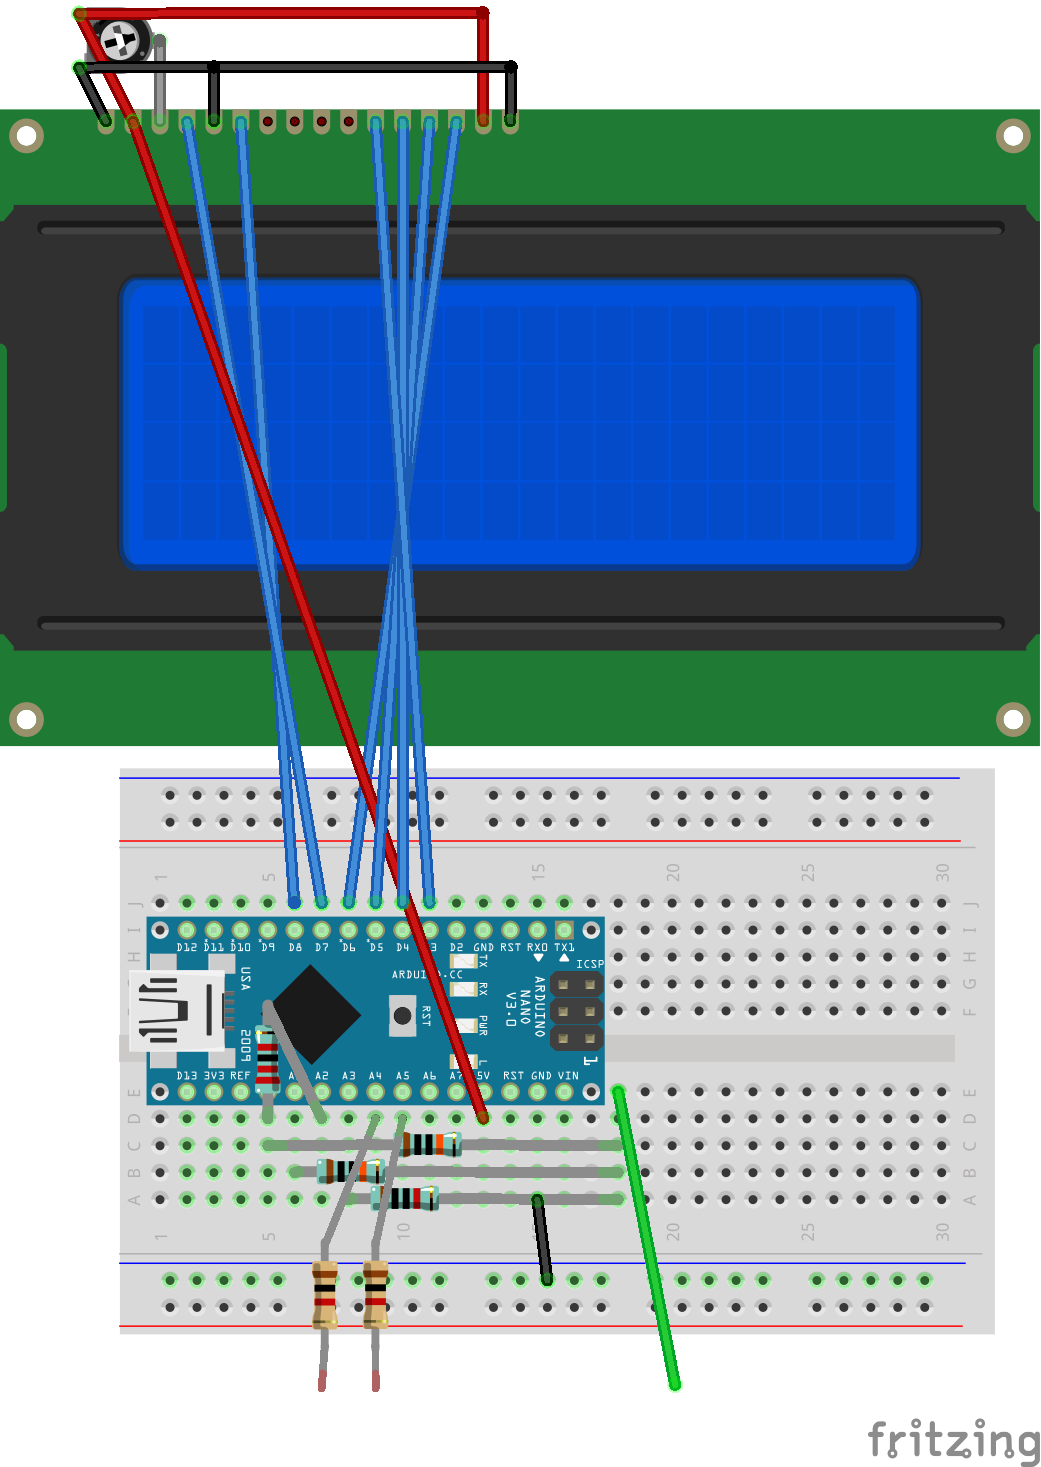
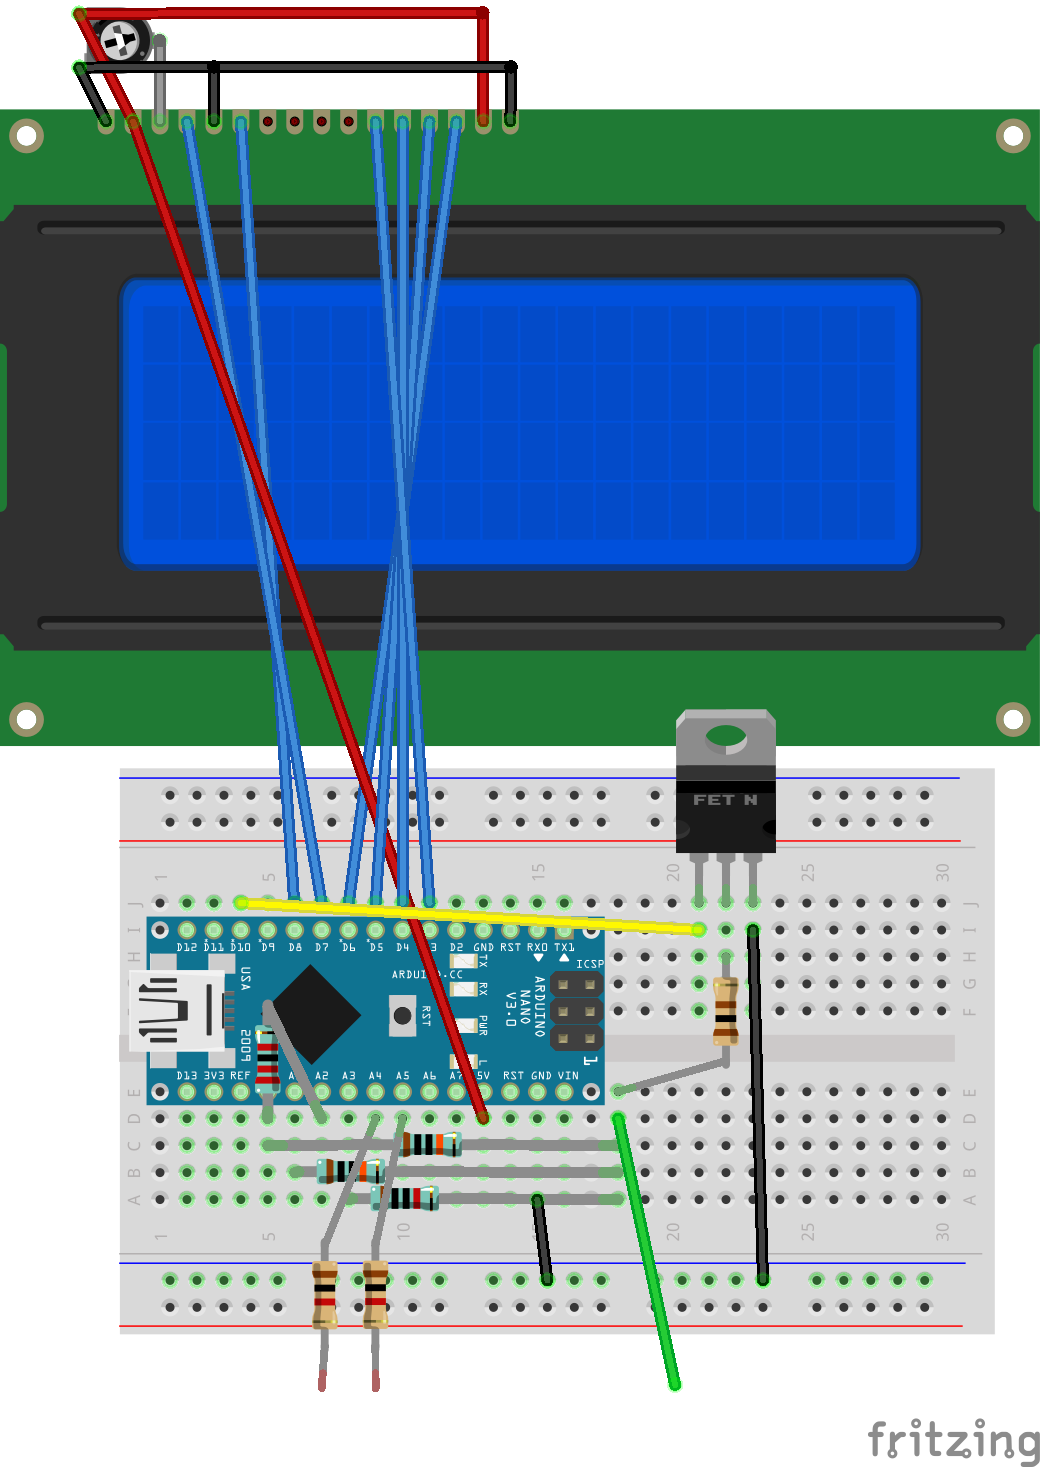
Improved support for automatic discharge and charge

Changed region(s): [[0.2152, 0.4601, 0.7685, 0.8896], [0.5841, 0.7362, 0.6455, 0.9202]]

diff --git a/SBMInfo/ADCUtils.hpp b/SBMInfo/ADCUtils.hpp
@@ -319,8 +319,8 @@ uint16_t readADCChannelWithReferenceMaxMicros(uint8_t aADCChannelNumber, uint8_t
  * aMaxRetries = 255 -> try forever
  * @return (tMax + tMin) / 2
  */
-uint16_t readUntil4ConsecutiveValuesAreEqual(uint8_t aADCChannelNumber, uint8_t aReference, uint8_t aDelay, uint8_t aAllowedDifference,
-        uint8_t aMaxRetries) {
+uint16_t readUntil4ConsecutiveValuesAreEqual(uint8_t aADCChannelNumber, uint8_t aReference, uint8_t aDelay,
+        uint8_t aAllowedDifference, uint8_t aMaxRetries) {
     int tValues[4]; // last value is in tValues[3]
     int tMin;
     int tMax;
@@ -651,7 +651,7 @@ bool isVCCTooHighSimple() {
  * !!! Function without handling of switched reference and channel.!!!
  * Use it ONLY if you only use INTERNAL reference (e.g. only call getTemperatureSimple()) in your program.
  */
-float getTemperatureSimple(void) {
+float getCPUTemperatureSimple(void) {
 #if defined(__AVR_ATmega1280__) || defined(__AVR_ATmega2560__)
     return 0.0;
 #else
@@ -661,12 +661,13 @@ float getTemperatureSimple(void) {
     Serial.print(F("TempRaw="));
     Serial.println(tTempRaw);
 #endif
-#if defined(__AVR_ATmega328P__)
-    tTempRaw -= 317;
-    return (float)tTempRaw / 1.22;
-#elif defined(__AVR_ATmega328PB__)
+
+#if defined(__AVR_ATmega328PB__)
     tTempRaw -= 245;
     return (float)tTempRaw;
+#else
+    tTempRaw -= 317;
+    return (float) tTempRaw / 1.22;
 #endif
 #endif
 }
@@ -675,12 +676,15 @@ float getTemperatureSimple(void) {
  * Handles usage of 1.1 V reference and channel switching by introducing the appropriate delays.
  */
 float getTemperature(void) {
+    return getCPUTemperature();
+}
+float getCPUTemperature(void) {
 #if defined(__AVR_ATmega1280__) || defined(__AVR_ATmega2560__)
     return 0.0;
 #else
     // use internal 1.1 volt as reference
     checkAndWaitForReferenceAndChannelToSwitch(ADC_TEMPERATURE_CHANNEL_MUX, INTERNAL);
-    return getTemperatureSimple();
+    return getCPUTemperatureSimple();
 #endif
 }
 

diff --git a/SBMInfo/ADCUtils.h b/SBMInfo/ADCUtils.h
@@ -129,8 +129,8 @@ uint16_t readADCChannelWithReferenceOversampleFast(uint8_t aADCChannelNumber, ui
 uint16_t readADCChannelWithReferenceMultiSamples(uint8_t aADCChannelNumber, uint8_t aReference, uint8_t aNumberOfSamples);
 uint16_t readADCChannelWithReferenceMax(uint8_t aADCChannelNumber, uint8_t aReference, uint16_t aNumberOfSamples);
 uint16_t readADCChannelWithReferenceMaxMicros(uint8_t aADCChannelNumber, uint8_t aReference, uint16_t aMicrosecondsToAquire);
-uint16_t readUntil4ConsecutiveValuesAreEqual(uint8_t aADCChannelNumber, uint8_t aReference, uint8_t aDelay, uint8_t aAllowedDifference,
-        uint8_t aMaxRetries);
+uint16_t readUntil4ConsecutiveValuesAreEqual(uint8_t aADCChannelNumber, uint8_t aReference, uint8_t aDelay,
+        uint8_t aAllowedDifference, uint8_t aMaxRetries);
 
 uint8_t checkAndWaitForReferenceAndChannelToSwitch(uint8_t aADCChannelNumber, uint8_t aReference);
 
@@ -152,8 +152,9 @@ void readAndPrintVCCVoltageMillivolt(Print *aSerial);
 uint16_t getVoltageMillivolt(uint16_t aVCCVoltageMillivolt, uint8_t aADCChannelForVoltageMeasurement);
 uint16_t getVoltageMillivolt(uint8_t aADCChannelForVoltageMeasurement);
 uint16_t getVoltageMillivoltWith_1_1VoltReference(uint8_t aADCChannelForVoltageMeasurement);
-float getTemperatureSimple(void);
-float getTemperature(void);
+float getCPUTemperatureSimple(void);
+float getCPUTemperature(void);
+float getTemperature(void) __attribute__ ((deprecated ("Renamed to getCPUTemperature()"))); // deprecated
 
 bool isVCCTooLowMultipleTimes();
 void resetVCCTooLowMultipleTimes();

diff --git a/SBMInfo/WireUtils.hpp b/SBMInfo/WireUtils.hpp
@@ -133,11 +133,14 @@ bool checkForAttachedI2CDevice(Print *aSerial, uint8_t aI2CDeviceAddress) {
  */
 int8_t scanForAttachedI2CDevice(Print *aSerial, uint8_t aI2CAddressToStartWith) {
 // the next 2 statements disable TWI hangup, if SDA and SCL are connected and disconnected from ground.
+#if defined(TWCR)
     TWCR = 0;
+#endif
     Wire.begin();
 
     auto tStartMillis = millis();
-    for (uint_fast8_t tI2CAddress = aI2CAddressToStartWith; tI2CAddress < 127; tI2CAddress++) {
+    // We cannot use uint_fast8_t here, since it is ambiguous parameter for beginTransmission()  on 16/32 bit CPU
+    for (uint8_t tI2CAddress = aI2CAddressToStartWith; tI2CAddress < 127; tI2CAddress++) {
         Wire.beginTransmission(tI2CAddress);
         uint8_t tOK = Wire.endTransmission(true);
         if (tOK == 0) {

diff --git a/README.md b/README.md
@@ -50,6 +50,11 @@ An example schematic for a SBM module can be found in the datasheet of TI bq2931
 
 ![Simple breadboard setup](pictures/Breadboard.jpg)
 
+# Support for automatic discharge and charge
+The charge control pin (9) is high as long as relative charge is below 95%. It can be used to control a NPN transistor, which collector controls a high side P FET.<br/>
+The discharge control pin (10) is high as long as relative charge is above 5% and voltage, if available, is below 3300 mV. It can be used to control a logic level FET directly.<br/>
+The switch off values can be changed [here](https://github.com/ArminJo/Smart-Battery-Module-Info_For_Arduino/blob/master/SBMInfo/SBMInfo.ino#L42)
+
 # LCD display content
 ### LCD Display before device connected
 1. line: "SBMInfo" | Version |  VCC voltage
@@ -194,6 +199,9 @@ Average minutes remaining until empty: 16 h 11 min
 ![Fritzing schematics](extras/SBMInfo_Schaltplan.png)
 
 # Revision History
+### Version 4.2
+- Removed compile time warnings.
+ 
 ### Version 4.1.0
 - Support for automatic discharge and charge.
 - Improved output.
